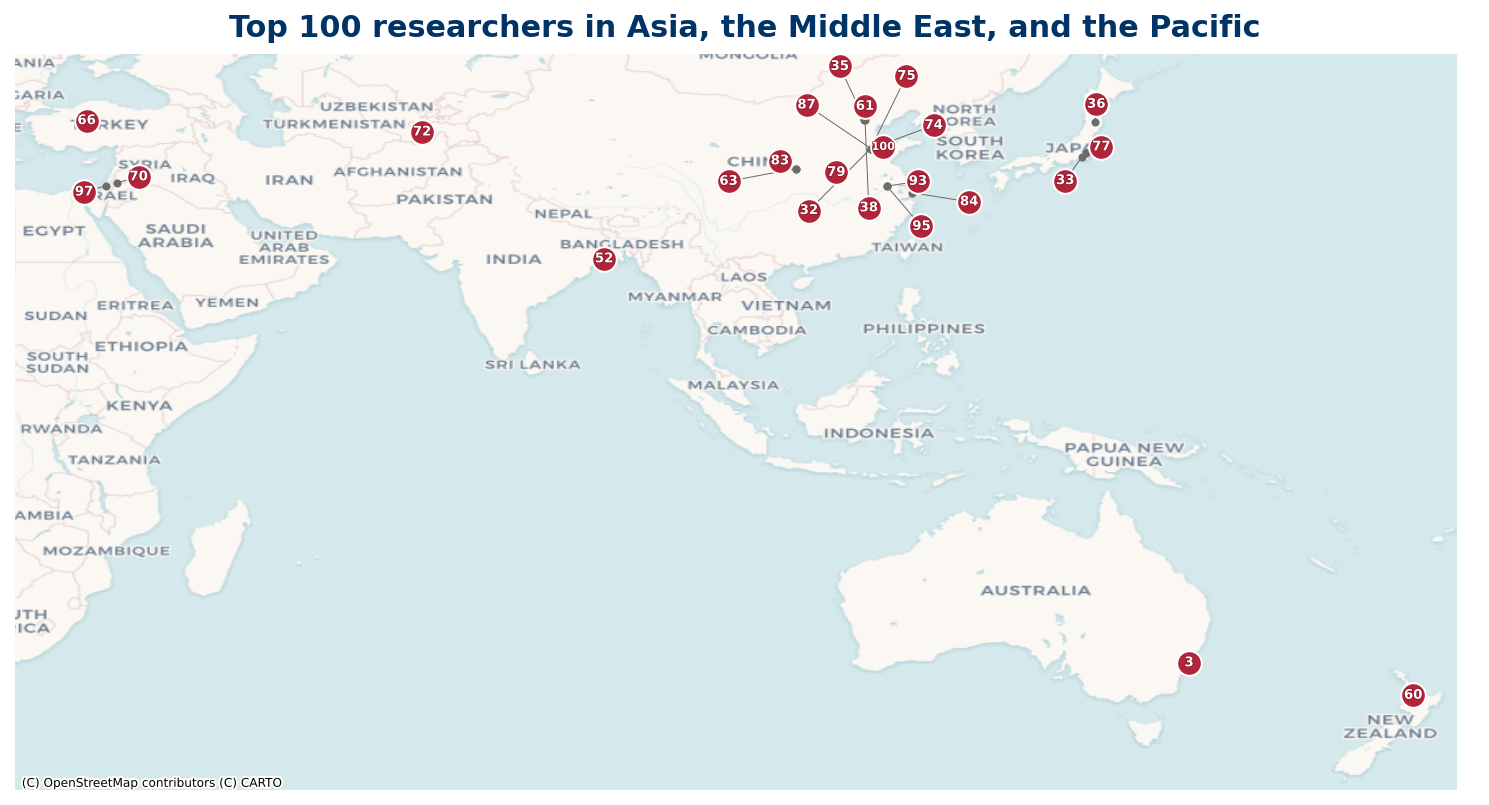
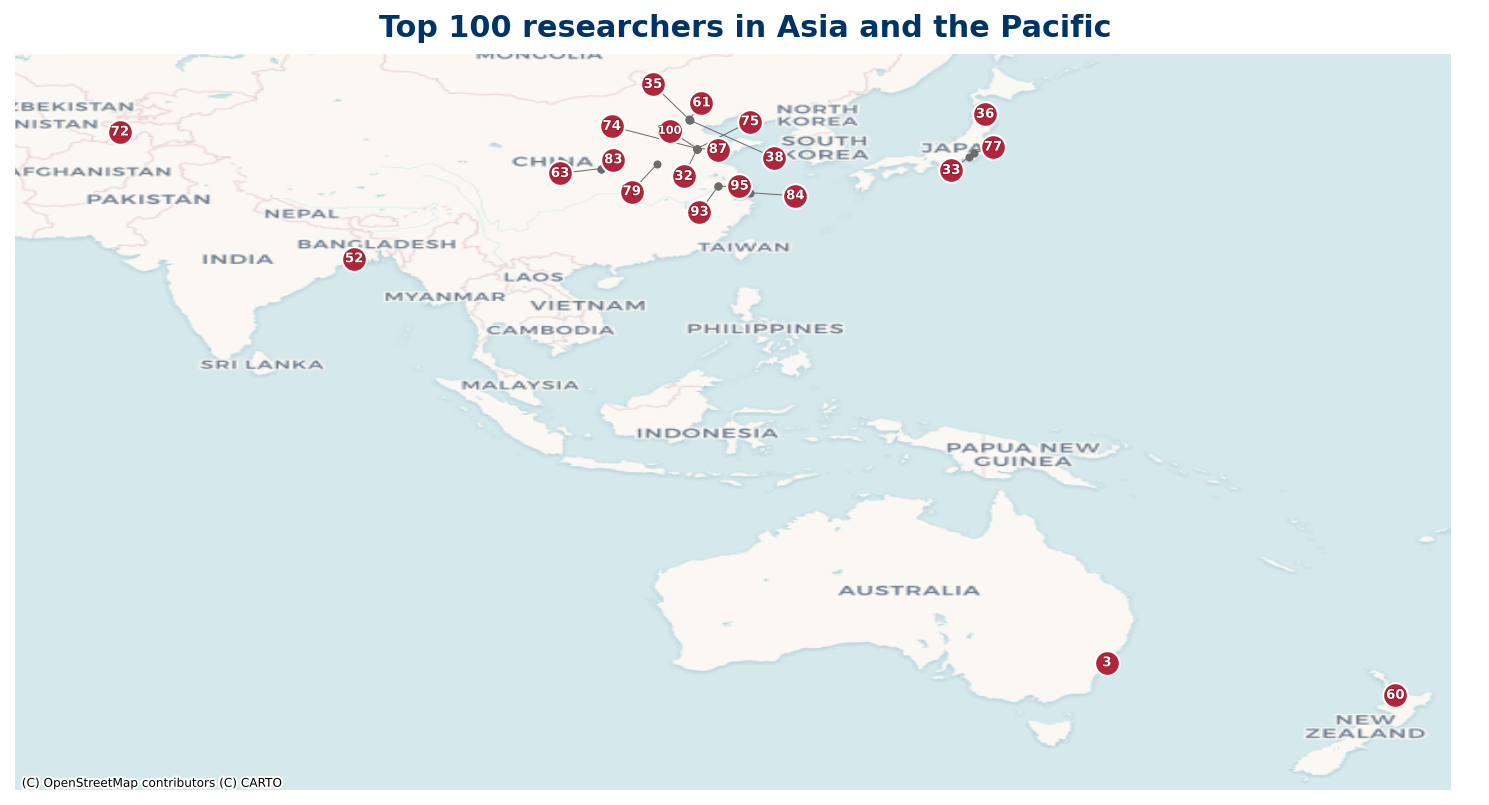
Regroup: Turkey to Europe, Middle East to Other regions
Turkey moves from the Asia bucket into Europe (NATO, Council of
Europe, UEFA, Eurovision, EU candidate since 1999; institutional
alignment is European). Israel and Jordan move from Asia into Other
regions, where they join South Africa and Brazil. Asia and the Pacific
now means just that: East/South/Central Asia and Oceania, no Middle
East. Tightened the Asia map's western bbox from longitude 25 to 60 so
the view zooms in on the actual range (Tajikistan at 68 is the
westernmost point).

Final partition: NA 34 + Europe 41 + Asia 21 + Other 4 = 100.

Changed region(s): [[0.0, 0.0, 0.8341, 0.8696], [0.865, 0.0621, 0.9886, 0.9627], [0.6797, 0.9006, 0.8032, 0.9317]]

diff --git a/_site/regions/asia.html b/_site/regions/asia.html
@@ -3,12 +3,12 @@
 <head>
 <meta charset="utf-8">
 <meta name="viewport" content="width=device-width, initial-scale=1">
-<title>Asia, the Middle East, and the Pacific - Who&#x27;s Who in Goldbach Research</title>
+<title>Asia and the Pacific - Who&#x27;s Who in Goldbach Research</title>
 <link rel="stylesheet" href="../styles.css">
 <link rel="stylesheet" href="https://cdn.datatables.net/2.1.8/css/dataTables.dataTables.min.css">
 <script src="https://code.jquery.com/jquery-3.7.1.min.js"></script>
 <script src="https://cdn.datatables.net/2.1.8/js/dataTables.min.js"></script>
-<meta property="og:title" content="Asia, the Middle East, and the Pacific - Who&#x27;s Who in Goldbach Research">
+<meta property="og:title" content="Asia and the Pacific - Who&#x27;s Who in Goldbach Research">
 <meta property="og:description" content="A directory of the researchers most active on the Goldbach conjecture, ranked from arXiv preprint output and OpenAlex citation data.">
 <meta property="og:type" content="website">
 <meta property="og:url" content="https://wwigr.org/regions/asia">
@@ -33,13 +33,13 @@
 <a href="../about.html" class="">About</a></nav>
 </header>
 <main>
-<h1>Asia, the Middle East, and the Pacific</h1>
-<p class="subtitle">Top 100 researchers based in Asia, the Middle East, and the Pacific</p>
+<h1>Asia and the Pacific</h1>
+<p class="subtitle">Top 100 researchers based in Asia and the Pacific</p>
 
-<p>24 Top 100 researchers are based in Asia, the Middle East, or the Pacific.</p>
+<p>21 Top 100 researchers are based in Asia or the Pacific.</p>
 
 <div class="figure-page">
-<img src="../img/13_top100_asia.png" alt="Map of Asia, the Middle East, and the Pacific Top 100 researchers">
+<img src="../img/13_top100_asia.png" alt="Map of Asia and the Pacific Top 100 researchers">
 </div>
 
 <h2>Listing</h2>
@@ -56,8 +56,6 @@
 <tr><td>60</td><td><a href="../people/kevin-broughan.html">Kevin Broughan</a></td><td>University of Waikato</td><td>NZ</td></tr>
 <tr><td>61</td><td><a href="../people/wenguang-zhai.html">Wenguang Zhai</a></td><td>Beihang University</td><td>CN</td></tr>
 <tr><td>63</td><td><a href="../people/ping-xi.html">Ping Xi</a></td><td>Xi&#x27;an Jiaotong University</td><td>CN</td></tr>
-<tr><td>66</td><td><a href="../people/ahmet-m-guloglu.html">Ahmet M. Güloğlu</a></td><td>Bilkent University</td><td>TR</td></tr>
-<tr><td>70</td><td><a href="../people/malik-bataineh.html">Malik Bataineh</a></td><td>Jordan University of Science and Technology</td><td>JO</td></tr>
 <tr><td>72</td><td><a href="../people/z-kh-rakhmonov.html">Z. Kh. Rakhmonov</a></td><td>Academy of Sciences of the Republic of Tajikistan</td><td>TJ</td></tr>
 <tr><td>74</td><td><a href="../people/guangshi-lu.html">Guangshi Lü</a></td><td>Shandong University</td><td>CN</td></tr>
 <tr><td>75</td><td><a href="../people/tao-zhan.html">Tao Zhan</a></td><td>Shandong University</td><td>CN</td></tr>
@@ -68,7 +66,6 @@
 <tr><td>87</td><td><a href="../people/liangyi-zhao.html">Liangyi Zhao</a></td><td>Shandong University</td><td>CN</td></tr>
 <tr><td>93</td><td><a href="../people/hao-pan.html">Hao Pan</a></td><td>Nanjing University of Finance and Economics</td><td>CN</td></tr>
 <tr><td>95</td><td><a href="../people/zhi-wei-sun.html">Zhi-Wei Sun</a></td><td>Nanjing University</td><td>CN</td></tr>
-<tr><td>97</td><td><a href="../people/lior-bary-soroker.html">Lior Bary-Soroker</a></td><td>Tel Aviv University</td><td>IL</td></tr>
 <tr><td>100</td><td><a href="../people/xiumin-ren.html">Xiumin Ren</a></td><td>Shandong University</td><td>CN</td></tr>
 </tbody>
 </table>

diff --git a/_site/regions/europe.html b/_site/regions/europe.html
@@ -36,7 +36,7 @@
 <h1>Europe</h1>
 <p class="subtitle">Top 100 researchers based in Europe</p>
 
-<p>40 Top 100 researchers are based in Europe.</p>
+<p>41 Top 100 researchers are based in Europe.</p>
 
 <div class="figure-page">
 <img src="../img/12_top100_europe.png" alt="Map of Europe Top 100 researchers">
@@ -73,6 +73,7 @@
 <tr><td>57</td><td><a href="../people/hung-m-bui.html">Hung M. Bui</a></td><td>University of Manchester</td><td>GB</td></tr>
 <tr><td>59</td><td><a href="../people/maxim-aleksandrovich-korolev.html">Maxim Aleksandrovich Korolev</a></td><td>Russian Academy of Sciences</td><td>RU</td></tr>
 <tr><td>64</td><td><a href="../people/jeanmarc-deshouillers.html">Jean‐Marc Deshouillers</a></td><td>Centre National de la Recherche Scientifique</td><td>FR</td></tr>
+<tr><td>66</td><td><a href="../people/ahmet-m-guloglu.html">Ahmet M. Güloğlu</a></td><td>Bilkent University</td><td>TR</td></tr>
 <tr><td>67</td><td><a href="../people/par-kurlberg.html">Pär Kurlberg</a></td><td>KTH Royal Institute of Technology</td><td>SE</td></tr>
 <tr><td>68</td><td><a href="../people/etienne-fouvry.html">Étienne Fouvry</a></td><td>Université Paris-Saclay</td><td>FR</td></tr>
 <tr><td>71</td><td><a href="../people/akshat-mudgal.html">Akshat Mudgal</a></td><td>University of Warwick</td><td>GB</td></tr>

diff --git a/_site/regions/other.html b/_site/regions/other.html
@@ -36,7 +36,7 @@
 <h1>Other regions</h1>
 <p class="subtitle">Top 100 researchers based in Other regions</p>
 
-<p>2 Top 100 researchers are based outside the three named regions.</p>
+<p>4 Top 100 researchers are based outside the three named regions.</p>
 
 <div class="figure-page">
 <img src="../img/14_top100_other.png" alt="Map of Other regions Top 100 researchers">
@@ -47,6 +47,8 @@
 <thead><tr><th>Rank</th><th>Name</th><th>Institution</th><th>Country</th></tr></thead>
 <tbody>
 <tr><td>37</td><td><a href="../people/florian-luca.html">Florian Luca</a></td><td>Stellenbosch University</td><td>ZA</td></tr>
+<tr><td>70</td><td><a href="../people/malik-bataineh.html">Malik Bataineh</a></td><td>Jordan University of Science and Technology</td><td>JO</td></tr>
+<tr><td>97</td><td><a href="../people/lior-bary-soroker.html">Lior Bary-Soroker</a></td><td>Tel Aviv University</td><td>IL</td></tr>
 <tr><td>99</td><td><a href="../people/emanuel-carneiro.html">Emanuel Carneiro</a></td><td>Instituto Nacional de Matemática Pura e Aplicada</td><td>BR</td></tr>
 </tbody>
 </table>

diff --git a/publish.py b/publish.py
@@ -51,18 +51,21 @@ NA_COUNTRIES = {"US", "CA", "MX"}
 # Europe set: traditional Europe only. Turkey and Israel moved to the
 # Asia / Middle East / Pacific bucket so each researcher lands in
 # exactly one region.
+# Europe set includes Turkey (NATO, Council of Europe, UEFA, EU
+# candidate). Israel and Jordan land in "Other regions" with the rest
+# of the Middle East / Africa / South America tail.
 EU_COUNTRIES = {
     "AD","AL","AT","BA","BE","BG","BY","CH","CY","CZ","DE","DK","EE","ES",
     "FI","FO","FR","GB","GR","HR","HU","IE","IS","IT","LI","LT","LU","LV",
     "MC","MD","ME","MK","MT","NL","NO","PL","PT","RO","RS","RU","SE","SI",
-    "SK","SM","UA","VA","XK",
+    "SK","SM","TR","UA","VA","XK",
 }
-# Asia + Pacific + Middle East. TR and IL live here.
+# Asia and the Pacific. East/South/Central Asia and Oceania; no Middle
+# East. Tajikistan stays here as Central Asia.
 AS_COUNTRIES = {
-    "AE","AF","AM","AU","AZ","BD","BH","BN","BT","CN","GE","HK","ID","IL",
-    "IN","IQ","IR","JO","JP","KG","KH","KP","KR","KW","KZ","LA","LB","LK",
-    "MM","MN","MO","MV","MY","NP","NZ","OM","PG","PH","PK","PS","QA","SA",
-    "SG","SY","TH","TJ","TL","TM","TR","TW","UZ","VN","YE","FJ",
+    "AF","AM","AU","AZ","BD","BN","BT","CN","GE","HK","ID","IN","JP","KG",
+    "KH","KP","KR","KZ","LA","LK","MM","MN","MO","MV","MY","NP","NZ","PG",
+    "PH","PK","SG","TH","TJ","TL","TM","TW","UZ","VN","FJ",
 }
 
 DRY = "--check" in sys.argv
@@ -743,10 +746,9 @@ def main():
     render_region(top100, "europe", "Europe", EU_COUNTRIES,
                   "12_top100_europe.png",
                   "Top 100 researchers are based in Europe.")
-    render_region(top100, "asia", "Asia, the Middle East, and the Pacific",
+    render_region(top100, "asia", "Asia and the Pacific",
                   AS_COUNTRIES, "13_top100_asia.png",
-                  "Top 100 researchers are based in Asia, the Middle East, "
-                  "or the Pacific.")
+                  "Top 100 researchers are based in Asia or the Pacific.")
     # Catch-all: everyone not in the three named regions (Africa, South
     # America, anything else). Computed from the rows themselves so we
     # never accidentally orphan a country.

diff --git a/gen_maps.py b/gen_maps.py
@@ -147,13 +147,12 @@ EU_COUNTRIES = {
     "AD","AL","AT","BA","BE","BG","BY","CH","CY","CZ","DE","DK","EE","ES",
     "FI","FO","FR","GB","GR","HR","HU","IE","IS","IT","LI","LT","LU","LV",
     "MC","MD","ME","MK","MT","NL","NO","PL","PT","RO","RS","RU","SE","SI",
-    "SK","SM","UA","VA","XK",
+    "SK","SM","TR","UA","VA","XK",
 }
 AS_COUNTRIES = {
-    "AE","AF","AM","AU","AZ","BD","BH","BN","BT","CN","GE","HK","ID","IL",
-    "IN","IQ","IR","JO","JP","KG","KH","KP","KR","KW","KZ","LA","LB","LK",
-    "MM","MN","MO","MV","MY","NP","NZ","OM","PG","PH","PK","PS","QA","SA",
-    "SG","SY","TH","TJ","TL","TM","TR","TW","UZ","VN","YE","FJ",
+    "AF","AM","AU","AZ","BD","BN","BT","CN","GE","HK","ID","IN","JP","KG",
+    "KH","KP","KR","KZ","LA","LK","MM","MN","MO","MV","MY","NP","NZ","PG",
+    "PH","PK","SG","TH","TJ","TL","TM","TW","UZ","VN","FJ",
 }
 # 5th tuple slot is the country filter set (None = no filter / world view).
 MAPS = [
@@ -163,8 +162,8 @@ MAPS = [
      "11_top100_north_america.png", (11, 5.6), 4, NA_COUNTRIES),
     ((-11, 38, 31, 63), "Top 100 researchers in Europe",
      "12_top100_europe.png", (10, 7.0), 4, EU_COUNTRIES),
-    ((25, 182, -48, 47),
-     "Top 100 researchers in Asia, the Middle East, and the Pacific",
+    ((60, 182, -48, 47),
+     "Top 100 researchers in Asia and the Pacific",
      "13_top100_asia.png", (13, 6.6), 3, AS_COUNTRIES),
     ((-165, 185, -50, 74), "Top 100 researchers in other regions",
      "14_top100_other.png", (13, 6.6), 2, "OTHER"),
